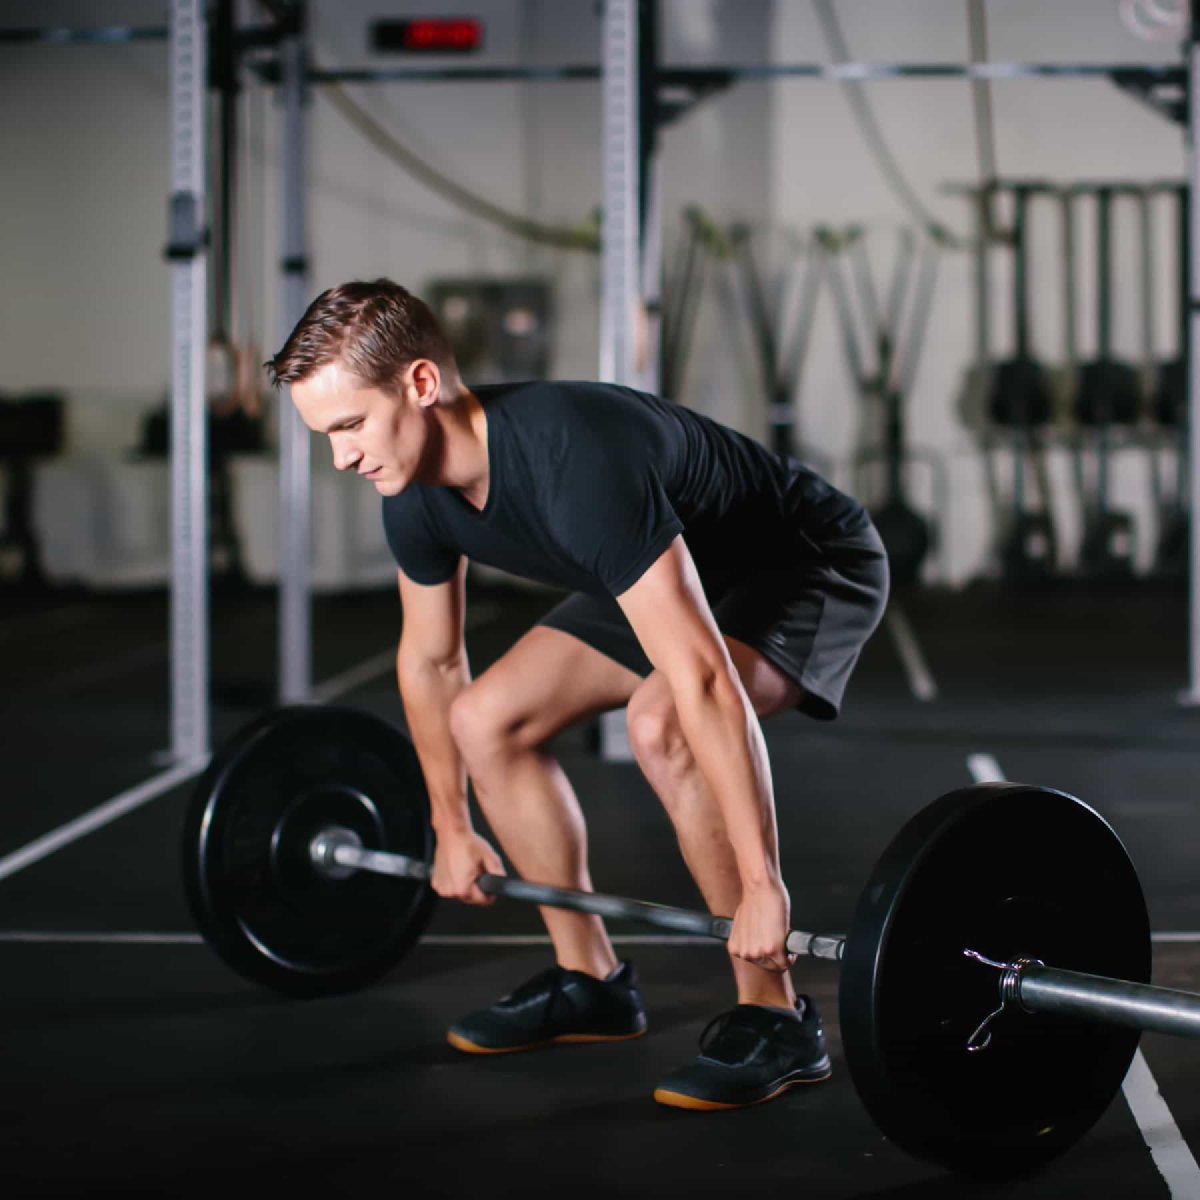
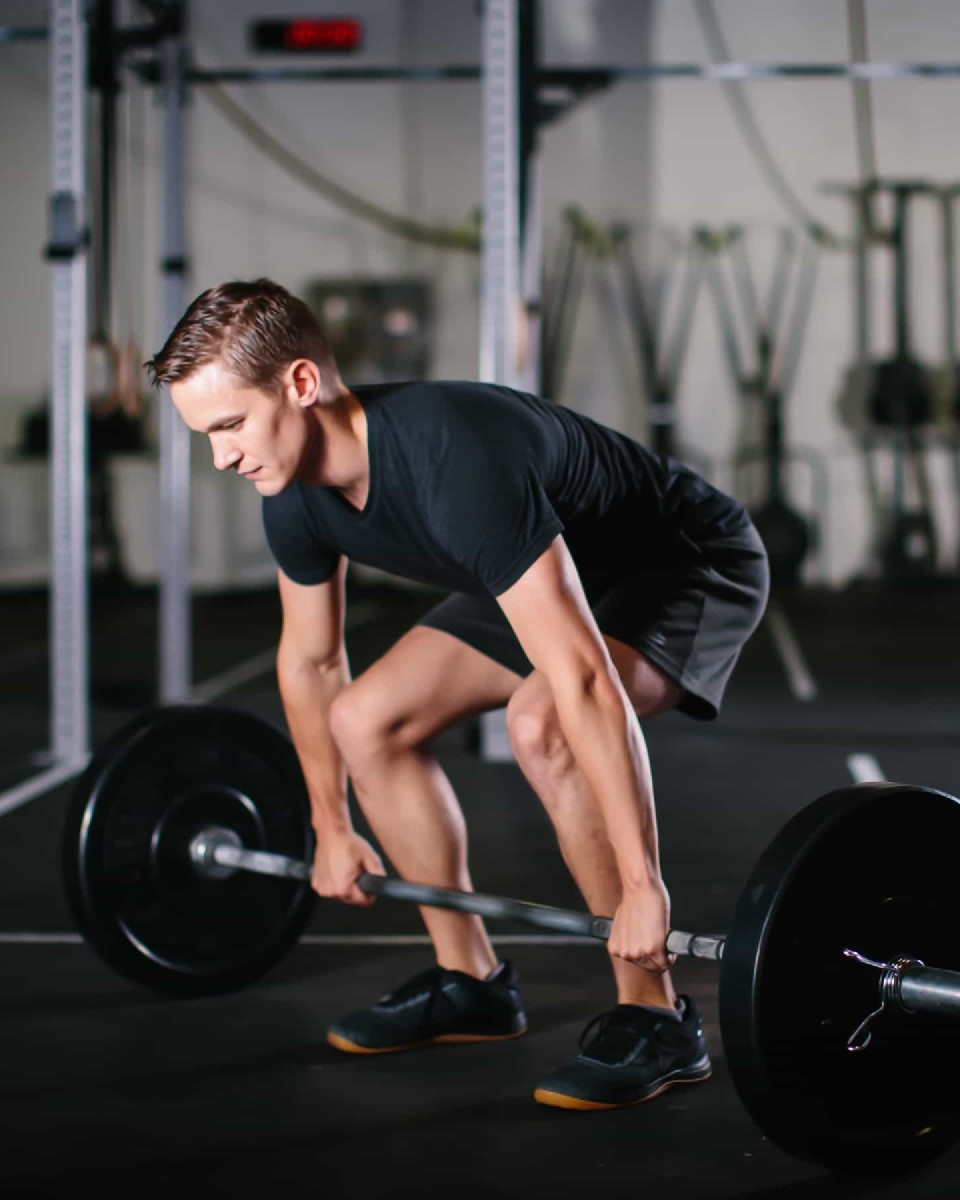
card-update

diff --git a/src/Components/Classes/Classes.jsx b/src/Components/Classes/Classes.jsx
@@ -1,12 +1,12 @@
 import React from 'react'
 import './Classes.css'
 import ClassCard from '../Cards/ClassCard'
-import bodyBuilding from '../../assets/images/bodybuilding.jpg'
-import powerLifting from '../../assets/images/powerlifting.jpg'
-import cardio from '../../assets/images/cardio.jpg'
-import yoga from '../../assets/images/yoga.jpg'
-import boxing from '../../assets/images/boxing.jpg'
-import bjj from '../../assets/images/bjj.jpg'
+import bodyBuilding from '../../assets/images/bodybuilding3.jpg'
+import powerLifting from '../../assets/images/powerlifting2.jpg'
+import cardio from '../../assets/images/cardio2.jpg'
+import yoga from '../../assets/images/yoga2.jpg'
+import boxing from '../../assets/images/boxing2.jpg'
+import bjj from '../../assets/images/bjj2.jpg'
 
 const Classes = () => {
   return (

diff --git a/src/App.css b/src/App.css
@@ -181,6 +181,17 @@ body {
     .footer__container-info p{
       font-size: 0.4rem;
     }
+    .cards {
+      width: 300px !important;
+      height: 370px !important;
+    }
+
+    .cards img {
+      width: 300px !important;
+    }
+    .intro h3 {
+      font-size: 30px !important;
+    }
   }
 
   .Btn {

diff --git a/src/Components/Cards/ClassCard.css b/src/Components/Cards/ClassCard.css
@@ -8,9 +8,8 @@
 }
 
 .cards img {
-    width: 100%;
-    height: 500px;
-    width: fit-content;
+    width: 400px;
+    height: auto;
     transition: 0.5s ease-in-out;
 }
 
